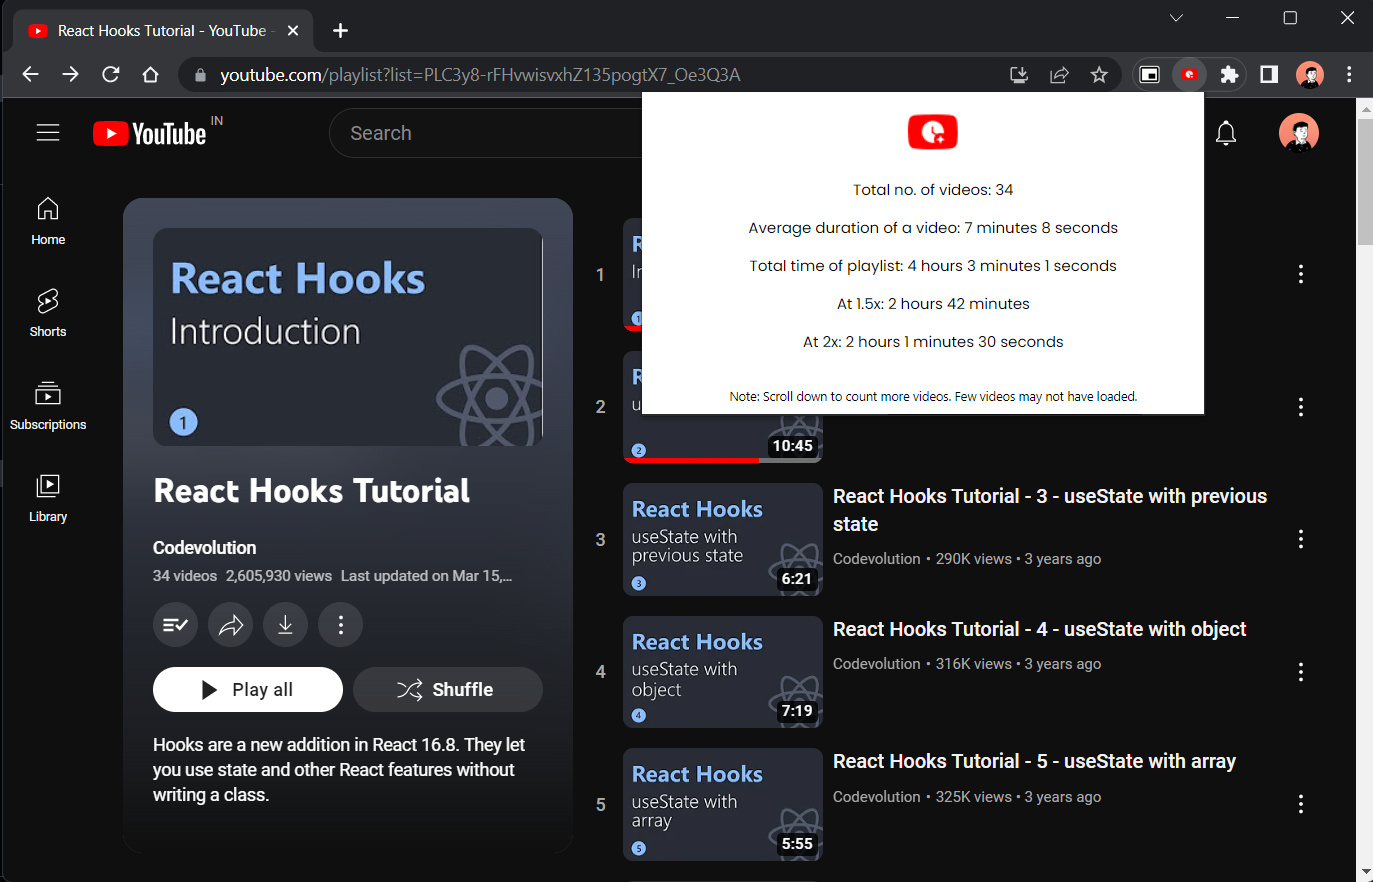
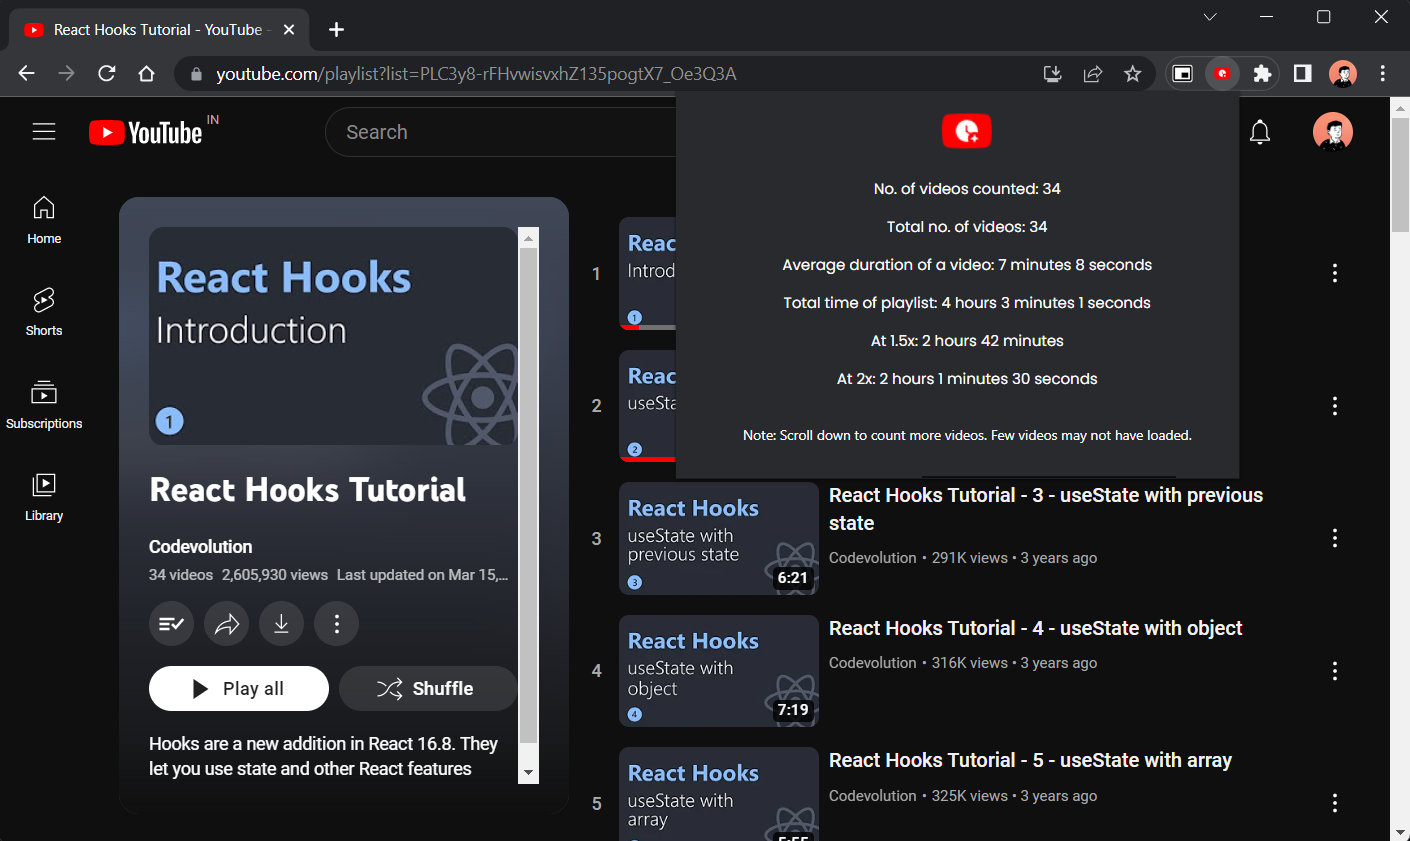
Dark mode implemented

diff --git a/popup.js b/popup.js
@@ -1,35 +1,33 @@
 callCalculate = (tab) => {
-    const {id, url} = tab;
-    if (url.indexOf('https://www.youtube.com/playlist?') > -1){
-      chrome.scripting.executeScript(
-        {
-          target: {tabId: id},
-          files: ['content.js']
-        }
-      )
-      //console.log(`Tab id: ${id} and url: ${url}`)
-    }
-    else{
-        document.querySelector("#p1").innerHTML = "This page doesn't have a YouTube playlist.";
-        document.querySelector("footer").innerHTML = " ";
-    }
+  const { id, url } = tab;
+  if (url.indexOf("https://www.youtube.com/playlist?") > -1) {
+    chrome.scripting.executeScript({
+      target: { tabId: id },
+      files: ["content.js"],
+    });
+  } else {
+    document.querySelector("#p1").innerHTML =
+      "This page doesn't have a YouTube playlist.";
+    document.querySelector("footer").innerHTML = " ";
   }
-  
-  getCurrentTab = async () => {
-    let queryOptions = { active: true, currentWindow: true};
-    let [tab] = await chrome.tabs.query(queryOptions);
-    return tab;
-  }
-  
-  
-  getCurrentTab().then((tab)=>{
-    callCalculate(tab)
-  })
-  
-  chrome.runtime.onMessage.addListener((request, sender, sendResponse) => {
-    document.querySelector("#v").innerHTML = request.v;
-    document.querySelector("#avg").innerHTML = request.avg;
-    document.querySelector("#p1").innerHTML = request.t1;
-    document.querySelector("#p1_5").innerHTML = request.t1_5;
-    document.querySelector("#p2").innerHTML = request.t2;
-  })
+};
+
+getCurrentTab = async () => {
+  let queryOptions = { active: true, currentWindow: true };
+  let [tab] = await chrome.tabs.query(queryOptions);
+  return tab;
+};
+
+getCurrentTab().then((tab) => {
+  callCalculate(tab);
+});
+
+chrome.runtime.onMessage.addListener((request, sender, sendResponse) => {
+  document.querySelector("#v").innerHTML = request.vid;
+  document.querySelector("#t_v").innerHTML = request.total_vid;
+  document.querySelector("#avg").innerHTML = request.avgTime;
+  document.querySelector("#p1").innerHTML = request.time1;
+  document.querySelector("#p1_5").innerHTML = request.time1_5;
+  document.querySelector("#p2").innerHTML = request.time2;
+});
+

diff --git a/content.js b/content.js
@@ -47,7 +47,9 @@ timeCalc = (time, totalTime) => {
 }
 
 //to calculate total no. of videos
-var mvid = `Total no. of videos: ${vidCount}`;
+var mvid = `No. of videos counted: ${vidCount}`;
+
+var mtotal_vid = `Total no. of videos: ${document.querySelector(".metadata-stats yt-formatted-string").firstChild.innerText}`;
 
 //to calculate time at 1x
 totalTime.minutes += parseInt(totalTime.seconds / 60);
@@ -73,11 +75,12 @@ var totalTimeInSec2 = totalTimeInSec / 2;
 var m2 = `At 2x: ${timeCalc(totalTimeInSec2, totalTime)}`;
 
 var details = {
-  v: mvid,
-  avg: m_avg,
-  t1: m1,
-  t1_5: m1_5,
-  t2: m2
+  vid: mvid,
+  total_vid: mtotal_vid,
+  avgTime: m_avg,
+  time1: m1,
+  time1_5: m1_5,
+  time2: m2
 }
 
 chrome.runtime.sendMessage(details);

diff --git a/styles.css b/styles.css
@@ -2,10 +2,12 @@
 
 html, body {
     width: 450px;
-    height: 250px;
-  }
+    height: 300px;
+    background-color: #292a2d;
+    color: white;
+}
 
-#v, #avg, #p1, #p1_5, #p2, #image{
+#v, #t_v, #avg, #p1, #p1_5, #p2, #image{
     display: flex;
     align-items: center;
     justify-content: center;
@@ -15,12 +17,12 @@ p{
     font-family: 'Poppins', sans-serif;
     font-size: 12px;
     font-weight: 400;
-    color: #000000;
 }
 
 footer{
     display: flex;
     align-items: center;
     justify-content: center;
-    font-size: 10px;
+    font-size: 11px;
 }
+

diff --git a/popup.html b/popup.html
@@ -12,6 +12,7 @@
         <img src="./assets/icon48.png">
     </div> 
     <p id="v"></p>
+    <p id="t_v"></p>
     <p id="avg"></p>
     <p id="p1"></p>
     <p id="p1_5"></p>
